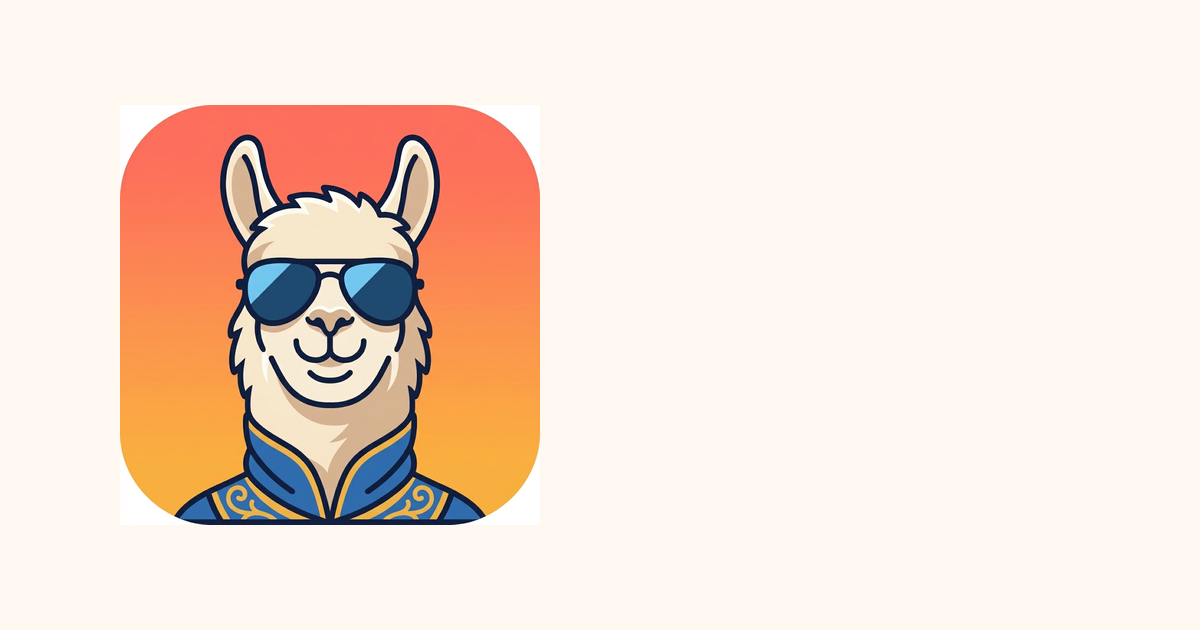
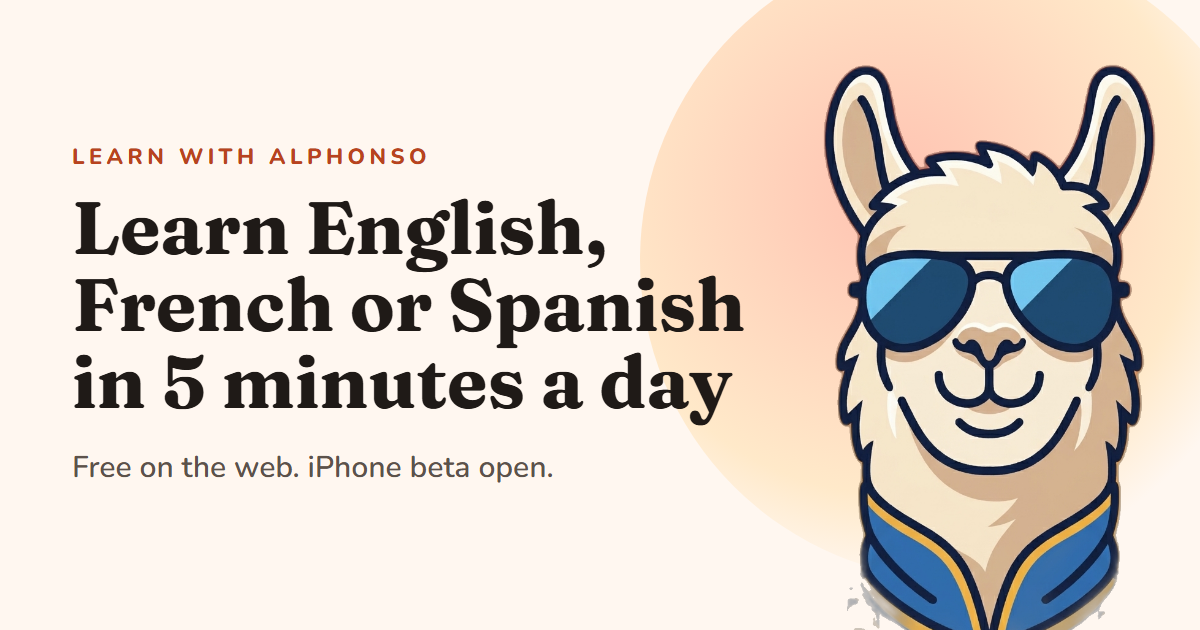
Share card: real 1200x630 image with the new headline and the llama
The old og-image was a small off-centre icon with white corners and no text,
which would look unfinished in a Reddit or Discord link preview.

diff --git a/app/layout.tsx b/app/layout.tsx
@@ -42,6 +42,8 @@ export const metadata: Metadata = {
     images: [
       {
         url: "/og-image.png",
+        width: 1200,
+        height: 630,
         alt: "Alphonso the llama, mascot of Learn With Alphonso",
       },
     ],
